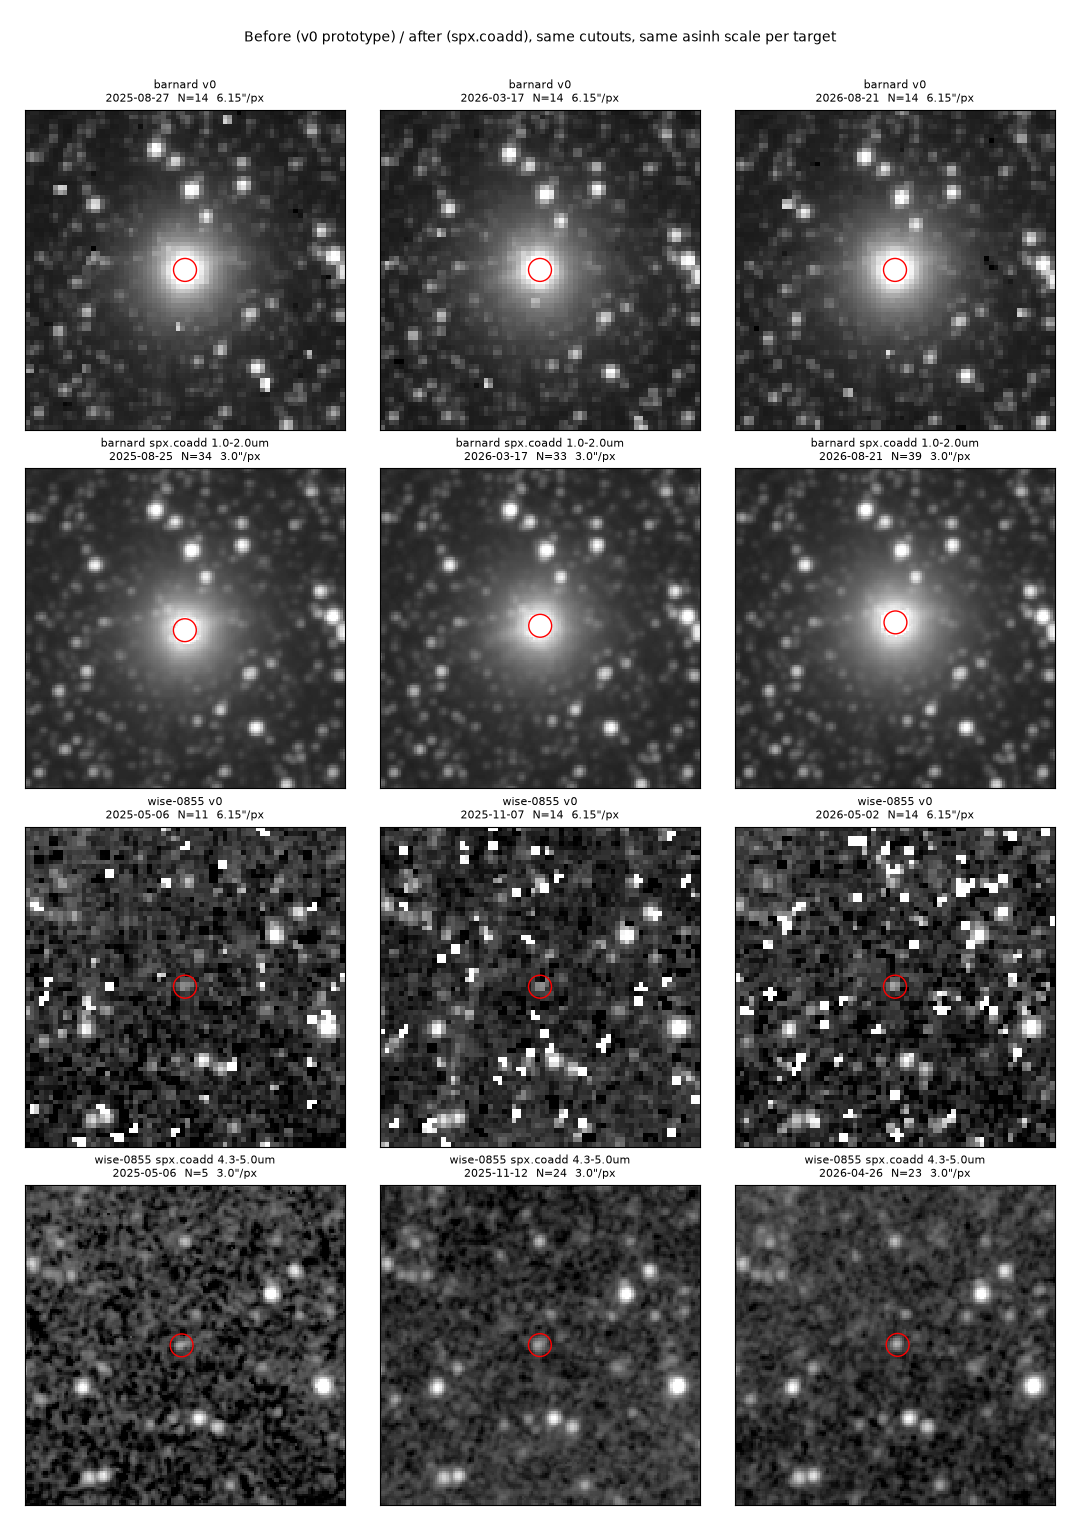
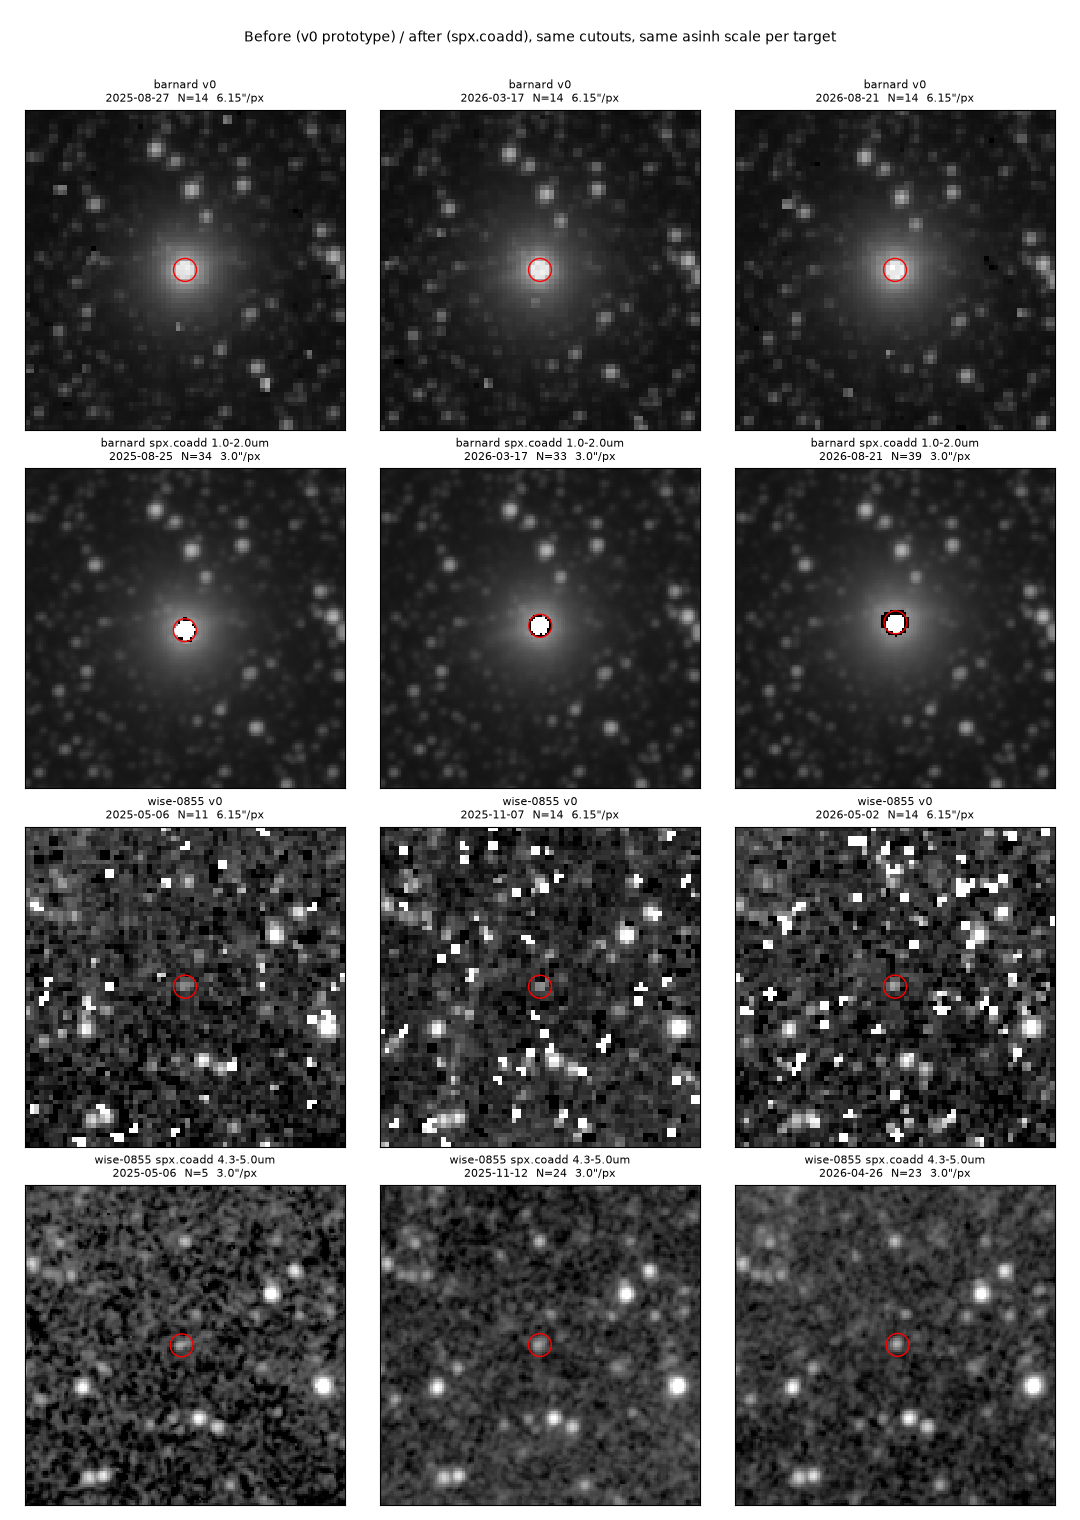
coadd: recovered overflow is usable; saturated points kept as lower limits
Explanatory Supplement v2.1 (Table 16, sect. 3.2.2): OVERFLOW = overflow
threshold (~half full well) reached, the slope is fit to the reads
before it and linearised; with SUR_ERROR on the same pixel it is an
early overflow (no usable reads, no correction). Measured on RW Aurigae
D1: recovered-overflow / clean flux at the same epoch and wavelength =
1.04 (median).

coadd: usable_pixels() keeps recovered overflow (OVERFLOW without
SUR_ERROR, companions only TRANSIENT/BLOOM); saturated_pixels() =
early overflow or NONLINEAR -> +inf. RW Aur cores are now real values.

photometry: flagged = unusable pixel in the aperture, saturated = true
saturation, new "overflow" field (recovered, ~4%). PSF photometry falls
back to the aperture when the core cannot be fitted (Barnard with
neighbours: 0 -> 355 points); apertures with missing saturated pixels
return a lower limit instead of nothing (R Dra 137 -> 413 points).
RW Aur usable points 17 -> 141, in D1/D2/D3/D5/D6 at all three epochs.

Claude-Session: https://claude.ai/code/session_01BqKN92Vyc7Y6zAbTCYh4GY

Changed region(s): [[0.0306, 0.3092, 0.9778, 0.5257], [0.0306, 0.0618, 0.9778, 0.2783], [0.7333, 0.0618, 0.7639, 0.0928]]

diff --git a/spx/photometry.py b/spx/photometry.py
@@ -17,7 +17,11 @@ from astropy.wcs.utils import proj_plane_pixel_area
 from scipy.ndimage import gaussian_filter, maximum_filter
 from scipy.optimize import least_squares
 
-from spx.coadd import BAD_MASK, HARD_MASK, SATURATION_MASK, assign_epochs, split_epochs, target_at
+from spx.coadd import (BAD_MASK, HARD_MASK, assign_epochs, saturated_pixels, split_epochs, target_at,
+                       usable_pixels)
+from spx.coadd import FLAG_BITS
+
+_OVF = 1 << FLAG_BITS["OVERFLOW"]
 
 FLUX_UNIT = "mJy"
 
@@ -43,8 +47,10 @@ def _aperture_weights(shape, x, y, r, oversample=5):
 def aperture_flux(cut, x, y, r_ap=2.0, r_in=4.0, r_out=7.0):
     """Background-subtracted aperture flux on one cutout at pixel (x, y).
 
-    Returns (flux_mJy, err_mJy, flagged, n_bad_in_aperture, saturated) or None when the aperture is off the
-    cutout. saturated = an OVERFLOW/NONLINEAR/BLOOM pixel within the aperture (flux is then a lower limit).
+    Returns (flux_mJy, err_mJy, flagged, n_bad_in_aperture, saturated, overflow) or None when the aperture is
+    off the cutout. flagged = a pixel in the aperture that is not usable (coadd.usable_pixels); saturated =
+    early overflow or NONLINEAR in the aperture (flux is a lower limit); overflow = recovered-overflow pixels in
+    the aperture (valid, ~4% accuracy).
     Pixels with HARD_MASK flags (dead, hot, cold, missing...) are excluded and the flux is scaled
     up by the excluded aperture fraction; any BAD_MASK pixel in the aperture sets flagged=True
     (saturated cores of bright stars are kept but flagged).
@@ -65,9 +71,11 @@ def aperture_flux(cut, x, y, r_ap=2.0, r_in=4.0, r_out=7.0):
     _, bg, bgsig = sigma_clipped_stats(img[ann], sigma=3.0, maxiters=5, stdfunc="mad_std")
     w = _aperture_weights(img.shape, x, y, r_ap)
     wu = np.where(usable, w, 0.0)
-    if wu.sum() < 0.5 * w.sum():
-        return None
-    s = np.nansum(wu * (img - bg)) * (w.sum() / wu.sum())
+    lower_limit = wu.sum() < 0.5 * w.sum()
+    if lower_limit and not (saturated_pixels(flags) & (w > 0)).any() and np.isfinite(img[w > 0]).all():
+        return None  # mostly dead/missing pixels, nothing to say
+    # saturated core with missing (NaN) pixels: sum what is there, no area scaling -> a lower limit
+    s = np.nansum(wu * (img - bg)) * (1.0 if lower_limit else w.sum() / wu.sum())
     if var is not None:
         v = np.nansum(wu ** 2 * np.where(np.isfinite(var), var, 0.0))
     else:
@@ -75,9 +83,12 @@ def aperture_flux(cut, x, y, r_ap=2.0, r_in=4.0, r_out=7.0):
     v += (wu.sum() ** 2) * bgsig ** 2 / ann.sum()  # background-estimate error
     omega_sr = proj_plane_pixel_area(cut.wcs) * (np.pi / 180) ** 2
     to_mjy = 1e6 * omega_sr * 1e3  # MJy/sr * sr -> Jy -> mJy
-    n_bad = int(((w > 0) & ((flags & BAD_MASK) != 0)).sum())
-    sat = bool(((w > 0) & ((flags & SATURATION_MASK) != 0)).any())
-    return float(s * to_mjy), float(np.sqrt(v) * to_mjy), n_bad > 0, n_bad, sat
+    inap = w > 0
+    n_bad = int((inap & ~usable_pixels(flags)).sum())
+    sat = bool((inap & saturated_pixels(flags)).any()) or bool(lower_limit)
+    n_bad = max(n_bad, int(lower_limit))
+    ovf = bool((inap & ((flags & _OVF) != 0) & usable_pixels(flags)).any())
+    return float(s * to_mjy), float(np.sqrt(v) * to_mjy), n_bad > 0, n_bad, sat, ovf
 
 
 def _pixel_gauss(shape, x, y, fwhm_px):
@@ -93,7 +104,8 @@ def psf_flux(cut, xys, fwhm_px, box_px=6, r_bg=(8.0, 12.0)):
     """Fixed-position PSF photometry on one native cutout: fluxes (mJy) of sources at xys (first = target).
 
     Pixel-integrated Gaussian PSF, local background from a clean annulus around the target, BAD_MASK
-    pixels excluded. Returns (flux_mJy array, err_mJy array, flagged, saturated) or None.
+    pixels excluded (recovered overflow kept). Returns (flux_mJy array, err_mJy array, flagged, saturated,
+    overflow) or None when the target core cannot be fitted (e.g. saturated): callers fall back to the aperture.
     """
     img = np.asarray(cut.image, float)
     flags = np.asarray(cut.flags) if cut.flags is not None else np.zeros(img.shape, np.int32)
@@ -109,7 +121,7 @@ def psf_flux(cut, xys, fwhm_px, box_px=6, r_bg=(8.0, 12.0)):
         return None
     _, bg, bgsig = sigma_clipped_stats(img[ann], sigma=3.0, maxiters=5, stdfunc="mad_std")
     box = (np.abs(xx - x0) <= box_px) & (np.abs(yy - y0) <= box_px)
-    use = box & clean
+    use = box & np.isfinite(img) & usable_pixels(flags)
     near = rr <= 1.5
     if use[near].sum() < 0.5 * near.sum():
         return None
@@ -122,9 +134,10 @@ def psf_flux(cut, xys, fwhm_px, box_px=6, r_bg=(8.0, 12.0)):
     p = cov @ (A.T @ (w * Z))
     omega_sr = proj_plane_pixel_area(cut.wcs) * (np.pi / 180) ** 2
     to_mjy = 1e6 * omega_sr * 1e3
-    flagged = bool(((flags & BAD_MASK) != 0)[near].any())
-    sat = bool(((flags & SATURATION_MASK) != 0)[rr <= 2.0].any())
-    return p * to_mjy, np.sqrt(np.diag(cov)) * to_mjy, flagged, sat
+    flagged = bool((~usable_pixels(flags))[near].any())
+    sat = bool(saturated_pixels(flags)[rr <= 2.0].any())
+    ovf = bool((((flags & _OVF) != 0) & usable_pixels(flags))[rr <= 2.0].any())
+    return p * to_mjy, np.sqrt(np.diag(cov)) * to_mjy, flagged, sat, ovf
 
 
 def spectrum_points(cutouts, coord: SkyCoord, epochs=None, r_ap: float = 2.0, r_in: float = 4.0,
@@ -155,22 +168,25 @@ def spectrum_points(cutouts, coord: SkyCoord, epochs=None, r_ap: float = 2.0, r_
             fw = getattr(c, "psf_fwhm_arcsec", float("nan"))
             fw = (fw if np.isfinite(fw) else 7.5) / 6.15
             r = psf_flux(c, xys, fw)
-            if r is None:
-                continue
-            flux, err, flagged, sat = float(r[0][0]), float(r[1][0]), r[2], r[3]
-            nbf = float(np.sum(r[0][1:]))
+            if r is not None:
+                flux, err, flagged, sat, ovf = float(r[0][0]), float(r[1][0]), r[2], r[3], r[4]
+                nbf = float(np.sum(r[0][1:]))
         else:
+            r = None
+        if r is None:  # no neighbours, or the core cannot be PSF-fitted (saturated): aperture photometry
             nbf = None
             r = aperture_flux(c, float(x), float(y), r_ap, r_in, r_out)
             if r is None:
                 continue
-            flux, err, flagged, _, sat = r
+            flux, err, flagged, _, sat, ovf = r
         pts.append({"wavelength_um": round(float(c.wavelength_um), 5), "bandwidth_um": round(float(c.bandwidth_um), 5),
                     "flux": round(flux, 6), "err": round(err, 6), "mjd": round(float(c.mjd), 5),
-                    "epoch": int(e), "band": f"D{c.detector}", "flagged": bool(flagged), "saturated": sat,
-                    "obs_id": c.obs_id})
+                    "epoch": int(e), "band": f"D{c.detector}", "flagged": bool(flagged), "saturated": bool(sat),
+                    "overflow": bool(ovf), "obs_id": c.obs_id})
         if nbf is not None:
             pts[-1]["neighbor_flux"] = round(nbf, 6)
+        elif blend:
+            pts[-1]["photometry"] = "aperture"  # PSF fit impossible for this exposure (saturated core)
     pts.sort(key=lambda p: (p["wavelength_um"], p["mjd"]))
     if blend:
         meta = {"flux_unit": FLUX_UNIT, "photometry": "psf_deblended", "aperture_radius_px": None,
@@ -182,12 +198,14 @@ def spectrum_points(cutouts, coord: SkyCoord, epochs=None, r_ap: float = 2.0, r_
                           "the exposure) fitting the target together with the known neighbours within "
                           f"{blend_radius_arcsec:g} arcsec, so their light is removed; total flux, no aperture "
                           "correction; flagged = non-informational FLAGS bit within 1.5 px; saturated = "
-                          "OVERFLOW/NONLINEAR/BLOOM within 2 px; neighbor_flux = fitted flux of the removed "
+                          "early overflow (OVERFLOW+SUR_ERROR) or NONLINEAR within 2 px (flux = lower limit; such "
+                          "exposures fall back to aperture photometry, point.photometry = 'aperture'); overflow = "
+                          "recovered overflow pixels (valid, ~4%); neighbor_flux = fitted flux of the removed "
                           "neighbours. Systematic: the Gaussian PSF leaves ~5-15% of a neighbour's flux as a "
                           "residual on the target (measured on WISE 0855 / G=16.3 star at 3-11 arcsec), so treat "
                           "|flux| < 0.15 x neighbor_flux as consistent with zero",
                 "n_points": len(pts), "n_flagged": int(sum(p["flagged"] for p in pts)),
-                "n_saturated": int(sum(p["saturated"] for p in pts))}
+                "n_saturated": int(sum(p["saturated"] for p in pts)), "n_overflow": int(sum(p["overflow"] for p in pts))}
         return {"meta": meta, "points": pts}
     meta = {"flux_unit": FLUX_UNIT, "photometry": "aperture", "aperture_radius_px": r_ap,
             "aperture_radius_arcsec": round(r_ap * 6.15, 2),
@@ -195,10 +213,12 @@ def spectrum_points(cutouts, coord: SkyCoord, epochs=None, r_ap: float = 2.0, r_
             "method": "per-exposure circular aperture on the L2 image (MJy/sr x pixel solid angle), "
                       "sigma-clipped annulus background; flagged = any non-informational FLAGS bit in the aperture "
                       "(e.g. saturated core), err from VARIANCE (or annulus scatter) + background error; "
-                      "saturated = OVERFLOW/NONLINEAR/BLOOM in the aperture: the flux is a lower limit, "
+                      "saturated = early overflow (OVERFLOW+SUR_ERROR) or NONLINEAR in the aperture: the flux is a "
+                      "lower limit; overflow = recovered overflow pixels (OVERFLOW without SUR_ERROR, slope from the "
+                      "reads before the threshold; measured 1.04x clean on RW Aur), usable with ~4% accuracy; "
                       "keep flagged points out of light curves",
             "n_points": len(pts), "n_flagged": int(sum(p["flagged"] for p in pts)),
-            "n_saturated": int(sum(p["saturated"] for p in pts))}
+            "n_saturated": int(sum(p["saturated"] for p in pts)), "n_overflow": int(sum(p["overflow"] for p in pts))}
     return {"meta": meta, "points": pts}
 
 

diff --git a/spx/coadd.py b/spx/coadd.py
@@ -7,7 +7,8 @@ shows only real motion and real brightness change.
 
 Quality steps, in order (each one is measured in handoff/results/coadd_metrics_v2.csv):
   1. FLAGS mask: transient/overflow/hot/cold/persistence/outlier/crosstalk/ghost/halo... -> NaN.
-     SOURCE (bit 21) and FULLSAMPLE (bit 12) are informational and are NOT masked.
+     SOURCE (bit 21) and FULLSAMPLE (bit 12) are informational and are NOT masked. Recovered overflow
+     (OVERFLOW without SUR_ERROR: flux from the reads before the threshold) is kept, see usable_pixels.
   2. Local background: sigma-clipped median of unflagged, non-SOURCE pixels in each cutout
      (after subtracting ZODI when the cutout carries it).
   3. Per-exposure robust noise sigma -> weight 1/sigma^2.
@@ -16,7 +17,7 @@ Quality steps, in order (each one is measured in handoff/results/coadd_metrics_v
   5. Per-pixel clipped, weighted mean over all exposures of the epoch in the band. The clip
      threshold has a term proportional to |median|: exposures sample different wavelengths (LVF),
      so real spectral differences are kept; single-exposure hits are rejected.
-  6. Saturated cores (no clean sample; every exposure flagged OVERFLOW/BLOOM/TRANSIENT...) become +inf
+  6. Saturated cores (no usable sample; EARLY OVERFLOW = OVERFLOW+SUR_ERROR, or NONLINEAR) become +inf
      (contract: drawn at the brightest colour, labelled "saturated"); NaN only ever means "no data".
      saturated="fill" puts the soft-masked median there instead. Frame.filled marks those pixels.
   7. Display: one asinh scale shared by all epochs of a band (no blink flicker).
@@ -52,7 +53,29 @@ BAD_MASK = sum(1 << b for n, b in FLAG_BITS.items() if n not in INFO_ONLY)
 # pixels that are never usable, not even to fill a saturated core
 HARD_MASK = sum(1 << FLAG_BITS[n] for n in ("NONFUNC", "MISSING_DATA", "HOT", "COLD", "PHANMISS", "DICHROIC"))
 SOURCE_MASK = 1 << FLAG_BITS["SOURCE"]
-SATURATION_MASK = sum(1 << FLAG_BITS[n] for n in ("OVERFLOW", "NONLINEAR", "BLOOM"))
+_OVF, _SUR, _NL = (1 << FLAG_BITS[n] for n in ("OVERFLOW", "SUR_ERROR", "NONLINEAR"))
+# bits that may accompany a recovered overflow (bright-star core: late transient, bloom mantle)
+_OVF_COMPANIONS = _OVF | (1 << FLAG_BITS["TRANSIENT"]) | (1 << FLAG_BITS["BLOOM"])
+SATURATION_MASK = _OVF | _NL  # kept for callers; use saturated_pixels() for the exact rule
+
+
+def saturated_pixels(flags) -> np.ndarray:
+    """True saturation (Explanatory Supplement v2.1, Table 16 / sect. 3.2.2): EARLY OVERFLOW = OVERFLOW and
+    SUR_ERROR on the same pixel (overflow in the first ~5 s, no usable reads, no nonlinearity correction),
+    or NONLINEAR (correction not trusted)."""
+    f = np.asarray(flags)
+    return (((f & _OVF) != 0) & ((f & _SUR) != 0)) | ((f & _NL) != 0)
+
+
+def usable_pixels(flags) -> np.ndarray:
+    """Clean pixels plus RECOVERED overflow pixels: OVERFLOW without SUR_ERROR means the slope was fit to the
+    reads before the overflow threshold (~half full well) and linearised, so the value is a valid flux.
+    Measured on RW Aurigae D1: recovered-overflow / clean flux at the same epoch and wavelength = 1.04 (median).
+    Other bad bits on such a pixel must be only TRANSIENT/BLOOM (bloom onset around a bright core)."""
+    f = np.asarray(flags)
+    clean = (f & BAD_MASK) == 0
+    ovf = ((f & _OVF) != 0) & ((f & _SUR) == 0) & ((f & BAD_MASK & ~_OVF_COMPANIONS) == 0)
+    return clean | ovf
 
 DETECTOR_BANDS_UM = {1: (0.75, 1.11), 2: (1.10, 1.66), 3: (1.63, 2.42), 4: (2.42, 3.83),
                      5: (3.80, 4.43), 6: (4.41, 5.01)}  # measured LVF range at the target pixel
@@ -177,8 +200,8 @@ def prepare(cut, min_good: int = 200):
     if var is not None:
         var = np.asarray(var, float)
         finite &= np.isfinite(var) & (var > 0)
-    good = finite & ((flags & BAD_MASK) == 0)
-    bg = good & ((flags & SOURCE_MASK) == 0)
+    good = finite & usable_pixels(flags)
+    bg = finite & ((flags & BAD_MASK) == 0) & ((flags & SOURCE_MASK) == 0)
     if bg.sum() < min_good:
         bg = good
     if bg.sum() < min_good:
@@ -189,7 +212,7 @@ def prepare(cut, min_good: int = 200):
     d = img - med
     soft = np.where(np.isfinite(img) & ((flags & HARD_MASK) == 0), d, np.nan)
     d[~good] = np.nan
-    sat = ((flags & SATURATION_MASK) != 0).astype(float)
+    sat = saturated_pixels(flags).astype(float)
     return d, soft, float(std), sat
 
 
@@ -294,7 +317,8 @@ def build_frames(cutouts, target: SkyCoord, fov_arcmin: float = 7.0, pix_arcsec:
               band = band_id (default "W<lo>-<hi>") and per_detector is ignored.
     max_exposures  cap per (epoch, band), chosen spread in time (dense fields near the poles).
     saturated "inf" (default, data contract): grid pixels covered by exposures but with no clean sample,
-              where at least one exposure has a saturation-type flag (OVERFLOW/NONLINEAR/BLOOM), become +inf.
+              where at least one exposure is truly saturated (saturated_pixels: early overflow or NONLINEAR),
+              become +inf.
               "fill": soft-masked median instead. "nan": leave NaN.
     smooth_fwhm_arcsec  optional NaN-aware Gaussian (~7" = point-source matched filter, "detection view").
     """
